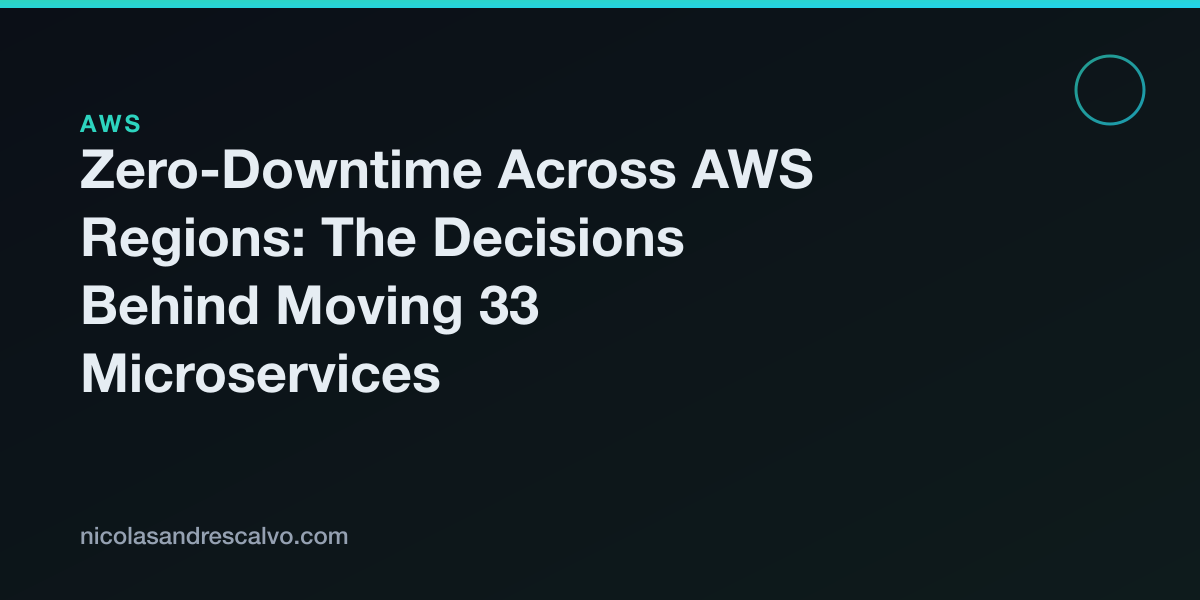
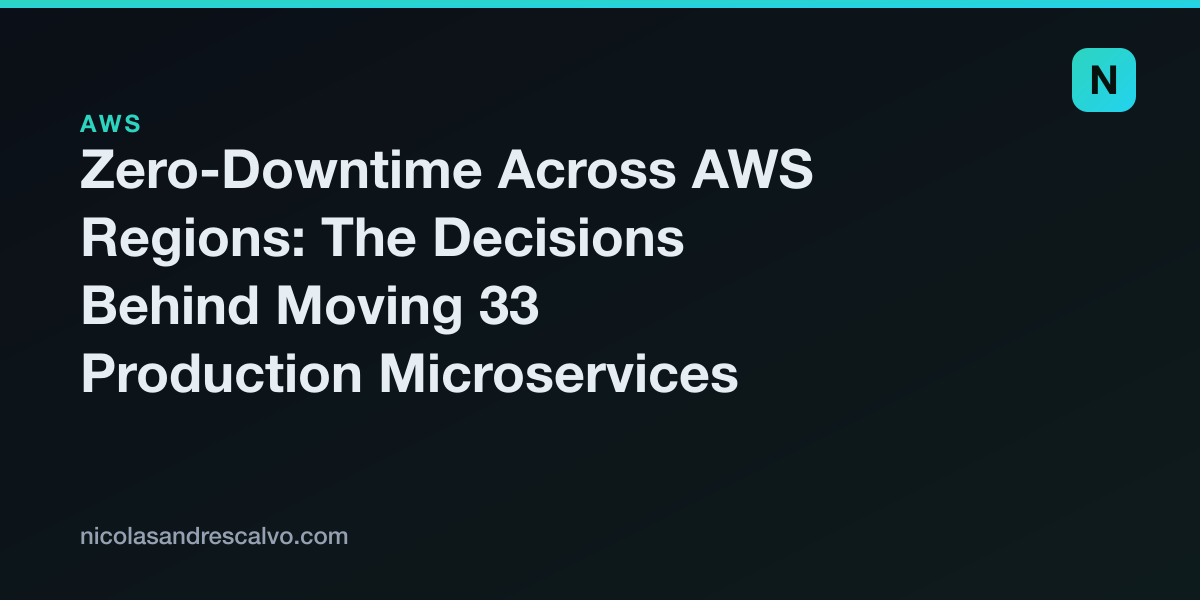
feat: trim About focus cards, drop redundant card covers, add Production to title
Shorten focus-area copy, remove title-banner thumbnails from case cards
(kept the cover inside the article), swap the empty circle on covers for the
N monogram, and regenerate covers.

Changed region(s): [[0.0617, 0.57, 0.6167, 0.66], [0.8942, 0.06, 0.9558, 0.21]]

diff --git a/src/content/cases/zero-downtime-aws-region-migration.md b/src/content/cases/zero-downtime-aws-region-migration.md
@@ -1,5 +1,5 @@
 ---
-title: "Zero-Downtime Across AWS Regions: The Decisions Behind Moving 33 Microservices"
+title: "Zero-Downtime Across AWS Regions: The Decisions Behind Moving 33 Production Microservices"
 date: 2025-06-01
 slug: zero-downtime-aws-region-migration
 draft: false
@@ -8,7 +8,7 @@ tags: ["aws", "migration", "zero-downtime", "terraform", "ci-cd", "cost-optimiza
 summary: "A region-to-region migration is sold as a redeploy. The hard part is everything the old region quietly assumed: a machine image baked per release, a self-hosted artifact server, and one load balancer per service. Here is how 33 microservices moved with no outage, and the decisions that made it possible."
 ---
 
-# Zero-Downtime Across AWS Regions: The Decisions Behind Moving 33 Microservices
+# Zero-Downtime Across AWS Regions: The Decisions Behind Moving 33 Production Microservices
 
 There is a comforting way to describe a cloud region migration. You have a stack running in region A, you stand it up in region B, you point traffic at the new one, and you switch the old one off. On a slide it is an arrow between two boxes.
 